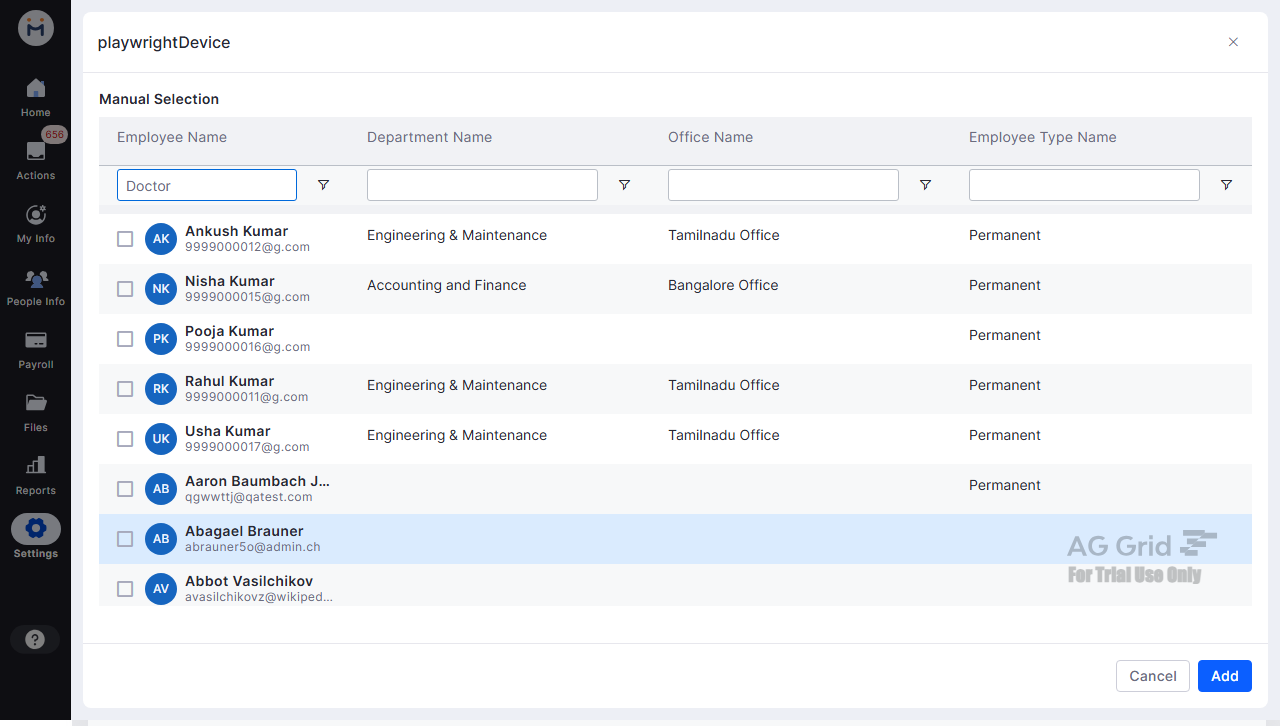
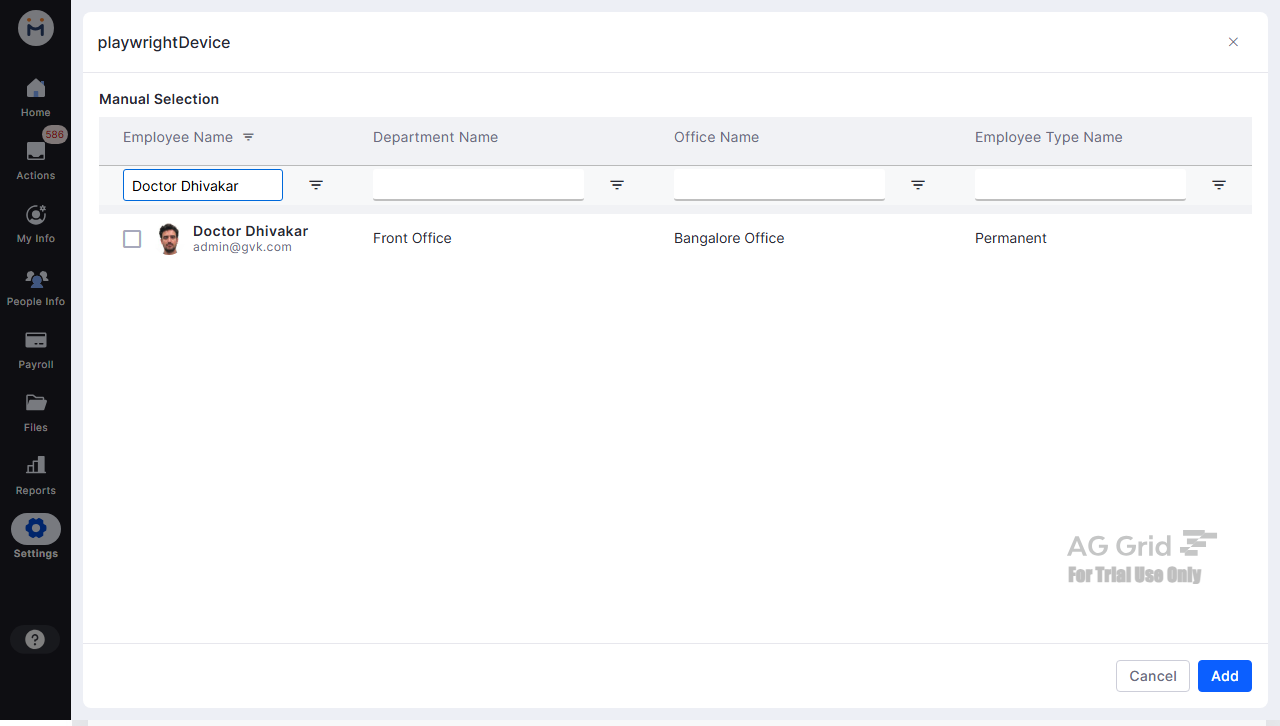
Update the existing file

diff --git a/tests/Pages/KioskPage.ts b/tests/Pages/KioskPage.ts
@@ -1,38 +1,55 @@
-import { Page, Locator, expect } from '@playwright/test';
+import { test, Page, Locator, expect } from '@playwright/test';
 
 export class KioskPage {
     private page: Page;
+    private officeName: string;
+    private kioskAddAdmin: string;
+    
     private settings: Locator;
     private attendanceSettings: Locator;
     private kioskSetupSettings: Locator;
     private addDeviceSettings: Locator;
     private kioskNameTextBox: Locator;
+    private devicetype: Locator;
+    private deviceTypeOption: Locator;
     private officeLocationDropdown: Locator;
+    private officeSelectionOption: Locator;
     private addAdmins: Locator;
     private employeeNameFilter: Locator;
     private employeeCheckBox: Locator;
     private addButtonAdminSelection: Locator;
     private addButtonDeviceDetailspage: Locator;
     private completeLaterButton: Locator;
-    // private threedotDropdown: Locator;
     private deleteOption: Locator;
     private deleteOnConfirmationpopup: Locator;
+    private attendanceMarkingType: Locator;
+    private proximitySettingsType: Locator;
+    private sleepModeRadiobutton: Locator;
+    private sleepModedropdown: Locator;
+    private appRestartSchedular: Locator;
+    private livenessCheckRadiobutton: Locator;
+    private livenessPrecision: Locator;
+    private faceReEnrollment: Locator;
 
 
-     kioskAddEmployee = 'Doctor';
-
-    constructor(page: Page) {
+    constructor(page: Page,devicename: string, office: string, kioskAddAdmin: string) {
         this.page = page;
+        this.officeName = office;
+        this.kioskAddAdmin = kioskAddAdmin;
+
         this.settings = page.locator('text="Settings"');
         this.attendanceSettings = page.locator('text="Attendance"');
         this.kioskSetupSettings = page.locator('text="Kiosk Setup"');
         this.addDeviceSettings = page.locator('text="Add Device"');
         this.kioskNameTextBox = page.locator('[name="kioskName"]');
-        this.officeLocationDropdown = page.locator('[name="officeId"]');
+        this.devicetype = page.locator('xpath=//span[text()="Select device type"]');
+        this.deviceTypeOption = page.getByRole('button', { name: 'Mace10' })
+        this.officeLocationDropdown = page.locator('xpath=//span[text()="Select office"]');
+        this.officeSelectionOption = page.getByRole('button', { name: `${office}` })
         this.addAdmins = page.locator('span:has-text("Add Admin")');
         this.employeeNameFilter = page.getByRole('textbox', { name: 'Employee Name Filter Input' });        
         this.employeeCheckBox = page
-                .locator('div[role="row"]', { hasText: this.kioskAddEmployee })
+                .locator('div[role="row"]', { hasText: this.kioskAddAdmin })
                  .locator('input[type="checkbox"]');
         this.addButtonAdminSelection = page.locator('text="Add"');
         this.addButtonDeviceDetailspage = page.getByRole('button', { name: 'Add', exact: true });
@@ -40,22 +57,35 @@ export class KioskPage {
         this.deleteOption = page.locator('text="Delete"');
         this.deleteOnConfirmationpopup = page.getByRole('button', { name: 'Delete' });
 
+        this.attendanceMarkingType = page.getByRole('radio', { name: 'Out'});
+        this.sleepModeRadiobutton = page.getByRole('checkbox', { name: 'sleepMode'});
+        this.sleepModedropdown = page.locator('[name="screenSleepTime"');
+        this.proximitySettingsType = page.getByRole('radio', {name: "High"});
+        this.appRestartSchedular = page.locator('text="12:00 PM"}');
+        this.livenessCheckRadiobutton = page.getByRole('checkbox', {name: "livenessCheckEnabled"});
+        this.livenessPrecision = page.locator('name="livenessSensitivity"');
+        this.faceReEnrollment = page.getByRole('checkbox', {name: "reEnrollmentEnabled"});
+
     }
 
     async goto(): Promise<void> {
         await this.page.goto('https://qa-portal.mewurk.com/login');
     }
 
-    async createKioskDevice(devicename: string, officeLocation: string): Promise<void>{
+    async createKioskDevice(devicename: string, officeName: string): Promise<void>{
         await this.settings.click();
         await this.attendanceSettings.click();
         await this.kioskSetupSettings.click();
         await this.addDeviceSettings.click();
         await this.kioskNameTextBox.fill(devicename);
         console.log(`Entered ${devicename} in the given field`);
-        await this.officeLocationDropdown.selectOption(officeLocation);
+        await this.devicetype.click();
+        await this.deviceTypeOption.click();
+        await this.officeLocationDropdown.click();
+        await this.officeSelectionOption.click();
+        console.log(`Selected ${officeName} from the dropdown`);
         await this.addAdmins.click();
-        await this.employeeNameFilter.fill(this.kioskAddEmployee);
+        await this.employeeNameFilter.fill(this.kioskAddAdmin);
         console.log('entered kiosk admin from the search filter');
         await this.page.screenshot({ path: 'screenshots/my-shot.png', fullPage: true });
         await expect(this.employeeCheckBox).toBeVisible();
@@ -67,13 +97,68 @@ export class KioskPage {
         await this.addButtonDeviceDetailspage.click();
         console.log(`✅ 'Add' Button on Kiosk Details page clicked successfully`);
         await this.completeLaterButton.click();
-        const threedotDropdown =  this.page.getByRole('row', { name: `${devicename} Not Paired` }).locator('#dropdown-basic');  //to click on row based on the devicename
-        await threedotDropdown.click();
-        await this.deleteOption.click();
-        // const deleteOnConfirmationpopup  = this.page.getByText(`${devicename} deleted`);
-        // console.log(`click on the delete option for the ${devicename} device`);
-        await this.deleteOnConfirmationpopup.click();
-        console.log(`${devicename} device deleted succesfully...`);
+        // const threedotDropdown =  this.page.getByRole('row', { name: `${devicename} Not Paired` }).locator('#dropdown-basic');  //to click on row based on the devicename
+        // await threedotDropdown.click();
+        // await this.deleteOption.click();
+        // await this.deleteOnConfirmationpopup.click();
+        // console.log(`${devicename} device deleted succesfully...`);
     }
 
+    // async EditKioskDevice(officeLocation: string): Promise<void> {
+
+    //     await this.officeLocationDropdown.selectOption(officeLocation);
+    //     await this.attendanceMarkingType.check();
+    //     await this.sleepModeRadiobutton.check();
+    //     await this.sleepModedropdown.selectOption('20');
+    //     await this.proximitySettingsType.check();
+    //     await this.livenessCheckRadiobutton.check();
+    //     await this.livenessPrecision.selectOption('High');
+    //     await this.faceReEnrollment.check();
+    
+    // }
+
+    // async DeleteKioskDevice(devicename: String): Promise<void> {
+
+    //     const threedotDropdown =  this.page.getByRole('row', { name: `${devicename} Not Paired` }).locator('#dropdown-basic');  //to click on row based on the devicename
+    //     await threedotDropdown.click();
+    //     await this.deleteOption.click();
+    //     await this.deleteOnConfirmationpopup.click();
+    //     console.log(`${devicename} device deleted succesfully...`);
+    // }        
+    
+
 }
+
+// // ======================= Playwright Tests =======================
+
+// test.describe('Kiosk Device Tests', () => {
+//     let kioskPage: KioskPage;
+//     const devicename = 'TestKiosk001';
+//     const officeName = 'Bangalore';
+//     const kioskAdmin = 'John Doe';
+
+//     test.beforeEach(async ({ page }) => {
+//         kioskPage = new KioskPage(page, devicename, officeName, kioskAdmin);
+//         await kioskPage.goto();
+//     });
+
+//     test('Create Kiosk Device', async () => {
+//         await kioskPage.createKioskDevice(devicename, officeName);
+//         // Add a simple assertion to verify creation
+//         const row = kioskPage.page.getByRole('row', { name: `${devicename}` });
+//         await expect(row).toBeVisible();
+//     });
+
+//     test('Edit Kiosk Device', async () => {
+//         await kioskPage.EditKioskDevice(officeName);
+//         // Optionally, assert that settings are applied
+//         await expect(kioskPage.sleepModedropdown).toHaveValue('20');
+//     });
+
+//     test('Delete Kiosk Device', async () => {
+//         await kioskPage.DeleteKioskDevice(devicename);
+//         // Verify deletion
+//         const row = kioskPage.page.getByRole('row', { name: `${devicename}` });
+//         await expect(row).not.toBeVisible();
+//     });
+// });

diff --git a/tests/Kiosk/KioskDeviceE2E.test.ts b/tests/Kiosk/KioskDeviceE2E.test.ts
@@ -1,13 +1,42 @@
 import { test, expect, Page } from '@playwright/test';
 import { LoginPage } from '../Pages/LoginPage'; 
 import { KioskPage } from "../Pages/KioskPage";
+import { kioskTestData } from "../../tests/Test_Data_Profile/kiosktestdata";
+// const { kioskdeviceName, officeName, kioskAddAdmin } = kioskTestData[0];
+const  kioskdeviceName = kioskTestData[0].kioskdeviceName;
+const   officeName = kioskTestData[0].officeName;
+const   kioskAddAdmin  = kioskTestData[0].kioskAddAdmin;
 
 test('Kiosk Device E2E', async({ page }: { page: Page}) => {
-    const kioskPage = new KioskPage(page);
+    // Import test data
+    
+
+    const kioskPage = new KioskPage(page, kioskdeviceName, officeName, kioskAddAdmin);
     const loginPage = new LoginPage(page);
+
+    //Navigation to Mewurk HRMS portal
     await loginPage.goto();
+
+    // Login to the portal as admin
     await loginPage.login('admin@gvk.com', 'Mewurk@123');
-    await kioskPage.createKioskDevice('playwrightDevice', 'Bangalore Office');
+
+    //First test case as create device
+    await kioskPage.createKioskDevice(kioskdeviceName, officeName);
+
+    //Second testcase as Edit Device
+    await kioskPage.EditKioskDevice('Goa');
+
+    //Delete the Created Device
+    await kioskPage.DeleteKioskDevice(kioskdeviceName);
 
 
 });
+
+// test('Edit the Device', async({ page }: { page: Page})) => {
+//     const kioskPage = new KioskPage(page);
+//     const loginPage = new LoginPage(page);
+
+//     await loginPage.goto();
+//     await loginPage.login('admin@gvk.com', 'Mewurk@123');
+//     await kioskPage.EditKioskDevice('Goa');
+// }

diff --git a/tests/Test_Data_Profile/kiosktestdata.ts b/tests/Test_Data_Profile/kiosktestdata.ts
@@ -1,0 +1,7 @@
+export const kioskTestData = [
+    {
+        kioskdeviceName: "playwrightDevice",
+        officeName: "Bangalore Office",
+        kioskAddAdmin: "Doctor Dhivakar"
+    }
+];
